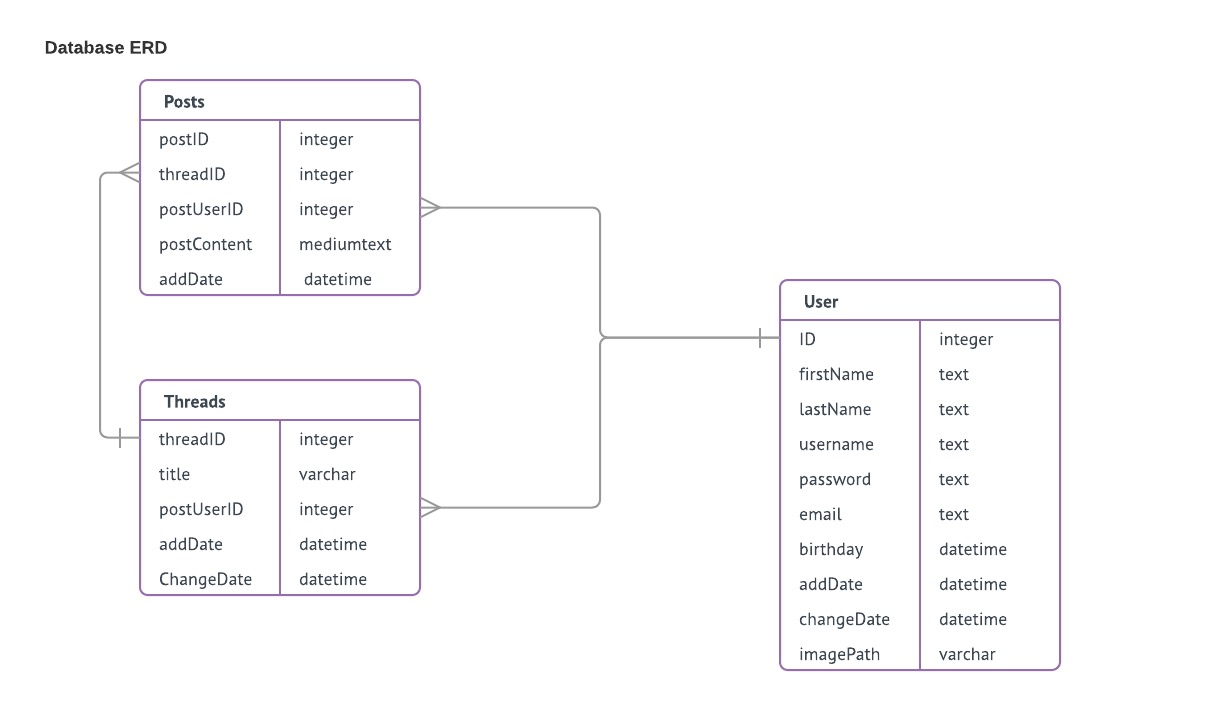
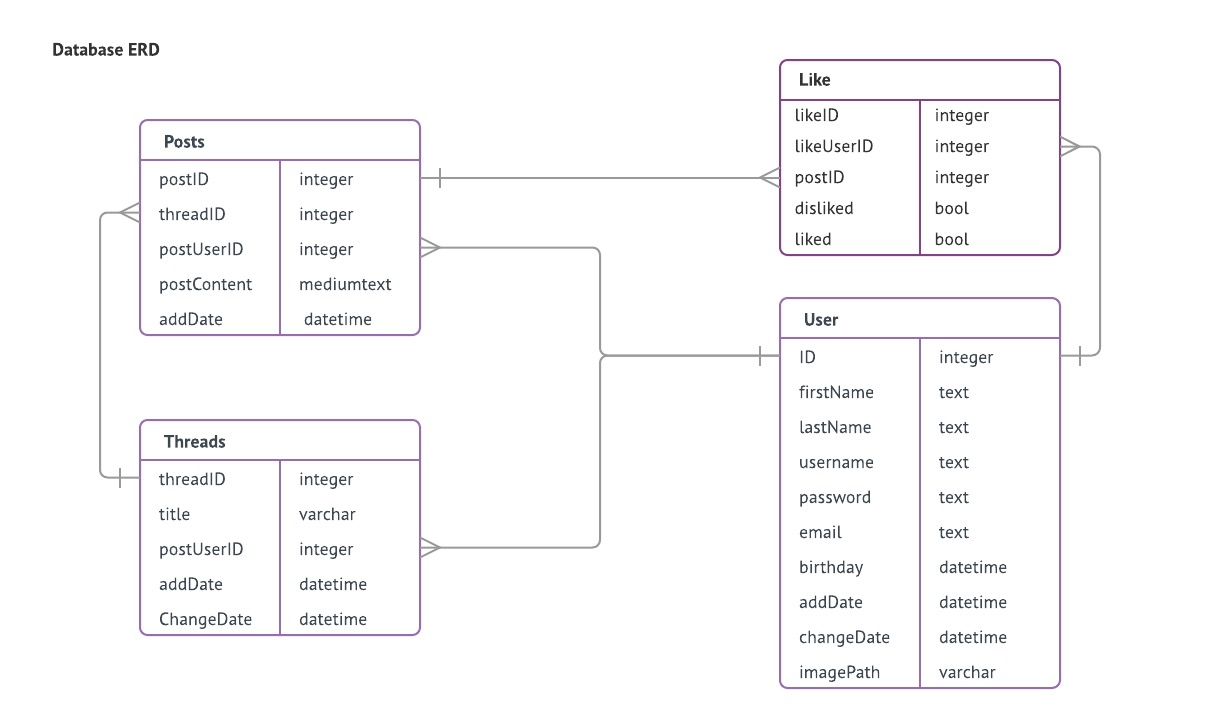
added CRUD information and new ERD

diff --git a/README.md b/README.md
@@ -25,6 +25,14 @@ create table posts (
     	addDate datetime not null  
 );  
 
+create table likes (
+	likeID int not null auto_increment primary key,
+	postID int not null,
+    likeUserID int not null,
+    liked bool default false,
+    disliked bool default false
+);  
+
 CREATE TABLE users (  
   id int(11) NOT NULL AUTO_INCREMENT PRIMARY KEY,  
   firstName text,  
